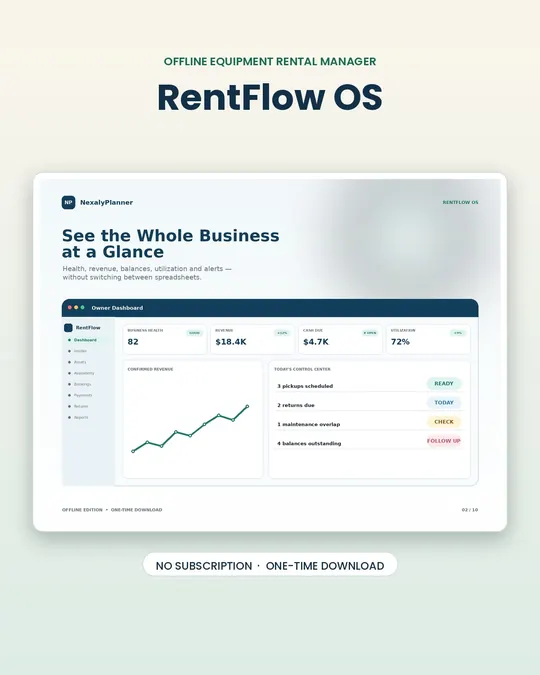
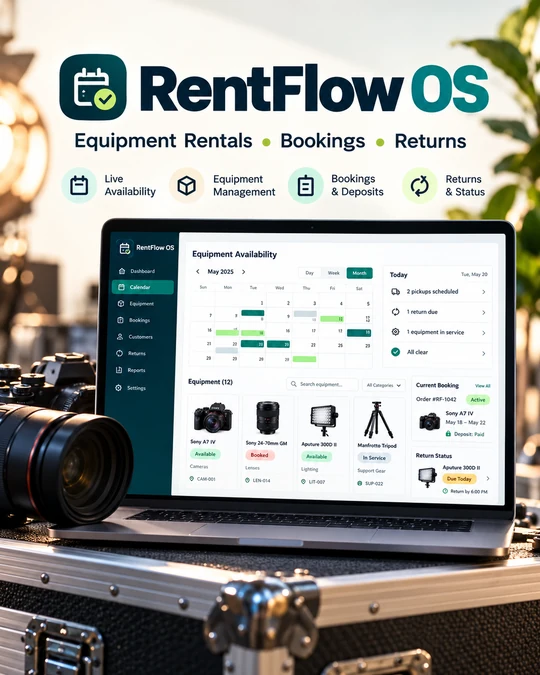
Refresh five operating system product thumbnails

diff --git a/planners/business-operating-systems/index.html b/planners/business-operating-systems/index.html
@@ -61,9 +61,9 @@
   </section>
   <section class="pl-wrap">
 <div class="grid" id="allCards" data-cat="Business Operating Systems">
-<a class="pcard" href="/planners/business-runway-burn-rate-os/" aria-label="Business Runway & Burn Rate OS — Offline Cash Runway Planner"><div class="pcover"><span class="heart"><svg viewBox="0 0 24 24" fill="currentColor"><path d="M12 21s-7-4.6-9.3-8.4C1 9.5 2.4 6 5.6 6c1.9 0 3.2 1.1 4.4 2.6C11.2 7.1 12.5 6 14.4 6c3.2 0 4.6 3.5 2.9 6.6C19 16.4 12 21 12 21z"/></svg></span><img src="/images/products/thumbs/business-runway-burn-rate-os.webp?v=actual-os-1" alt="Business Runway & Burn Rate OS — Offline Cash Runway Planner" width="400" height="500" loading="eager" fetchpriority="high" decoding="async"></div><div class="pcard-body"><h3>Business Runway & Burn Rate OS — Offline Cash Runway Planner</h3><div class="pr">$11.99</div></div></a>
-<a class="pcard" href="/planners/cashflow-13-os/" aria-label="CashFlow 13 OS — Offline 13-Week Cash Flow Planner"><div class="pcover"><span class="heart"><svg viewBox="0 0 24 24" fill="currentColor"><path d="M12 21s-7-4.6-9.3-8.4C1 9.5 2.4 6 5.6 6c1.9 0 3.2 1.1 4.4 2.6C11.2 7.1 12.5 6 14.4 6c3.2 0 4.6 3.5 2.9 6.6C19 16.4 12 21 12 21z"/></svg></span><img src="/images/products/thumbs/cashflow-13-os.webp?v=real-os-1" alt="CashFlow 13 OS — Offline 13-Week Cash Flow Planner" width="400" height="500" loading="lazy" decoding="async"></div><div class="pcard-body"><h3>CashFlow 13 OS — Offline 13-Week Cash Flow Planner</h3><div class="pr">$11.99</div></div></a>
-<a class="pcard" href="/planners/agency-client-profitability-capacity-os/" aria-label="Agency Client Profitability & Capacity OS"><div class="pcover"><span class="heart"><svg viewBox="0 0 24 24" fill="currentColor"><path d="M12 21s-7-4.6-9.3-8.4C1 9.5 2.4 6 5.6 6c1.9 0 3.2 1.1 4.4 2.6C11.2 7.1 12.5 6 14.4 6c3.2 0 4.6 3.5 2.9 6.6C19 16.4 12 21 12 21z"/></svg></span><img src="/images/products/thumbs/agency-client-profitability-capacity-os.webp?v=real-os-1" alt="Agency Client Profitability & Capacity OS" width="400" height="500" loading="lazy" decoding="async"></div><div class="pcard-body"><h3>Agency Client Profitability & Capacity OS</h3><div class="pr">$11.99</div></div></a>
+<a class="pcard" href="/planners/business-runway-burn-rate-os/" aria-label="Business Runway & Burn Rate OS — Offline Cash Runway Planner"><div class="pcover"><span class="heart"><svg viewBox="0 0 24 24" fill="currentColor"><path d="M12 21s-7-4.6-9.3-8.4C1 9.5 2.4 6 5.6 6c1.9 0 3.2 1.1 4.4 2.6C11.2 7.1 12.5 6 14.4 6c3.2 0 4.6 3.5 2.9 6.6C19 16.4 12 21 12 21z"/></svg></span><img src="/images/products/thumbs/business-runway-burn-rate-os.webp?v=20260928e" alt="Business Runway & Burn Rate OS — Offline Cash Runway Planner" width="400" height="500" loading="eager" fetchpriority="high" decoding="async"></div><div class="pcard-body"><h3>Business Runway & Burn Rate OS — Offline Cash Runway Planner</h3><div class="pr">$11.99</div></div></a>
+<a class="pcard" href="/planners/cashflow-13-os/" aria-label="CashFlow 13 OS — Offline 13-Week Cash Flow Planner"><div class="pcover"><span class="heart"><svg viewBox="0 0 24 24" fill="currentColor"><path d="M12 21s-7-4.6-9.3-8.4C1 9.5 2.4 6 5.6 6c1.9 0 3.2 1.1 4.4 2.6C11.2 7.1 12.5 6 14.4 6c3.2 0 4.6 3.5 2.9 6.6C19 16.4 12 21 12 21z"/></svg></span><img src="/images/products/thumbs/cashflow-13-os.webp?v=20260928e" alt="CashFlow 13 OS — Offline 13-Week Cash Flow Planner" width="400" height="500" loading="lazy" decoding="async"></div><div class="pcard-body"><h3>CashFlow 13 OS — Offline 13-Week Cash Flow Planner</h3><div class="pr">$11.99</div></div></a>
+<a class="pcard" href="/planners/agency-client-profitability-capacity-os/" aria-label="Agency Client Profitability & Capacity OS"><div class="pcover"><span class="heart"><svg viewBox="0 0 24 24" fill="currentColor"><path d="M12 21s-7-4.6-9.3-8.4C1 9.5 2.4 6 5.6 6c1.9 0 3.2 1.1 4.4 2.6C11.2 7.1 12.5 6 14.4 6c3.2 0 4.6 3.5 2.9 6.6C19 16.4 12 21 12 21z"/></svg></span><img src="/images/products/thumbs/agency-client-profitability-capacity-os.webp?v=20260928e" alt="Agency Client Profitability & Capacity OS" width="400" height="500" loading="lazy" decoding="async"></div><div class="pcard-body"><h3>Agency Client Profitability & Capacity OS</h3><div class="pr">$11.99</div></div></a>
 <a class="pcard" href="/planners/renewguard-os/" aria-label="RenewGuard OS — Offline Contract Renewal Operating System"><div class="pcover"><span class="heart"><svg viewBox="0 0 24 24" fill="currentColor"><path d="M12 21s-7-4.6-9.3-8.4C1 9.5 2.4 6 5.6 6c1.9 0 3.2 1.1 4.4 2.6C11.2 7.1 12.5 6 14.4 6c3.2 0 4.6 3.5 2.9 6.6C19 16.4 12 21 12 21z"/></svg></span><img src="/images/products/thumbs/renewguard-os.jpg?v=20260928b" alt="RenewGuard OS — Offline Contract Renewal Operating System" width="400" height="500" loading="lazy" decoding="async"></div><div class="pcard-body"><h3>RenewGuard OS — Offline Contract Renewal Operating System</h3><div class="pr">$11.99</div></div></a>
 <a class="pcard" href="/planners/consignclear-os/" aria-label="ConsignClear OS — Consignment Inventory & Payout Manager"><div class="pcover"><span class="heart"><svg viewBox="0 0 24 24" fill="currentColor"><path d="M12 21s-7-4.6-9.3-8.4C1 9.5 2.4 6 5.6 6c1.9 0 3.2 1.1 4.4 2.6C11.2 7.1 12.5 6 14.4 6c3.2 0 4.6 3.5 2.9 6.6C19 16.4 12 21 12 21z"/></svg></span><img src="/images/products/thumbs/consignclear-os-v3.webp" alt="ConsignClear OS — Consignment Inventory & Payout Manager" width="400" height="500" loading="lazy" decoding="async"></div><div class="pcard-body"><h3>ConsignClear OS — Consignment Inventory & Payout Manager</h3><div class="pr">$11.99</div></div></a>
 <a class="pcard" href="/planners/calibratrack-os/" aria-label="CalibraTrack OS — Calibration & Instrument Service Manager"><div class="pcover"><span class="heart"><svg viewBox="0 0 24 24" fill="currentColor"><path d="M12 21s-7-4.6-9.3-8.4C1 9.5 2.4 6 5.6 6c1.9 0 3.2 1.1 4.4 2.6C11.2 7.1 12.5 6 14.4 6c3.2 0 4.6 3.5 2.9 6.6C19 16.4 12 21 12 21z"/></svg></span><img src="/images/products/thumbs/calibratrack-os-v3.webp" alt="CalibraTrack OS — Calibration & Instrument Service Manager" width="400" height="500" loading="lazy" decoding="async"></div><div class="pcard-body"><h3>CalibraTrack OS — Calibration & Instrument Service Manager</h3><div class="pr">$11.99</div></div></a>
@@ -73,8 +73,8 @@
 <a class="pcard" href="/planners/batchtrace-os/" aria-label="Batch & Lot Traceability Software for Small Makers | Offline Inventory, Production and Recall Manager"><div class="pcover"><span class="heart"><svg viewBox="0 0 24 24" fill="currentColor"><path d="M12 21s-7-4.6-9.3-8.4C1 9.5 2.4 6 5.6 6c1.9 0 3.2 1.1 4.4 2.6C11.2 7.1 12.5 6 14.4 6c3.2 0 4.6 3.5 2.9 6.6C19 16.4 12 21 12 21z"/></svg></span><img src="/images/products/thumbs/batchtrace-os.webp" alt="Batch & Lot Traceability Software for Small Makers | Offline Inventory, Production and Recall Manager" width="400" height="500" loading="lazy" decoding="async" style="object-fit:contain;object-position:center;background:#0f1726"></div><div class="pcard-body"><h3>Batch & Lot Traceability Software for Small Makers | Offline Inventory, Production and Recall Manager</h3><div class="pr">$11.99</div></div></a>
 <a class="pcard" href="/planners/vendorpulse-os/" aria-label="VendorPulse OS — Offline Supplier Management, Purchase Orders & Landed Cost"><div class="pcover"><span class="heart"><svg viewBox="0 0 24 24" fill="currentColor"><path d="M12 21s-7-4.6-9.3-8.4C1 9.5 2.4 6 5.6 6c1.9 0 3.2 1.1 4.4 2.6C11.2 7.1 12.5 6 14.4 6c3.2 0 4.6 3.5 2.9 6.6C19 16.4 12 21 12 21z"/></svg></span><img src="/images/products/thumbs/vendorpulse-os.webp" alt="VendorPulse OS — Offline Supplier Management, Purchase Orders & Landed Cost" width="400" height="500" loading="lazy" decoding="async"></div><div class="pcard-body"><h3>VendorPulse OS — Offline Supplier Management, Purchase Orders & Landed Cost</h3><div class="pr">$11.99</div></div></a>
 <a class="pcard" href="/planners/sales-management-system/" aria-label="Sales Management System — Offline Inventory, Orders & Profit Dashboard"><div class="pcover"><span class="heart"><svg viewBox="0 0 24 24" fill="currentColor"><path d="M12 21s-7-4.6-9.3-8.4C1 9.5 2.4 6 5.6 6c1.9 0 3.2 1.1 4.4 2.6C11.2 7.1 12.5 6 14.4 6c3.2 0 4.6 3.5 2.9 6.6C19 16.4 12 21 12 21z"/></svg></span><img src="/images/products/thumbs/sales-management-system.webp" alt="Sales Management System — Offline Inventory, Orders & Profit Dashboard" width="400" height="500" loading="lazy" decoding="async" style="object-fit:contain;object-position:center;background:#0f1726"></div><div class="pcard-body"><h3>Sales Management System — Offline Inventory, Orders & Profit Dashboard</h3><div class="pr">$11.99</div></div></a>
-<a class="pcard" href="/planners/rentflow-os/" aria-label="RentFlow OS — Offline Equipment Rental Manager"><div class="pcover"><span class="heart"><svg viewBox="0 0 24 24" fill="currentColor"><path d="M12 21s-7-4.6-9.3-8.4C1 9.5 2.4 6 5.6 6c1.9 0 3.2 1.1 4.4 2.6C11.2 7.1 12.5 6 14.4 6c3.2 0 4.6 3.5 2.9 6.6C19 16.4 12 21 12 21z"/></svg></span><img src="/images/products/thumbs/rentflow-os.webp" alt="RentFlow OS — Offline Equipment Rental Manager" width="400" height="500" loading="lazy" decoding="async"></div><div class="pcard-body"><h3>RentFlow OS — Offline Equipment Rental Manager</h3><div class="pr">$11.99</div></div></a>
-<a class="pcard" href="/planners/offline-ai-business-copilot/" aria-label="Offline AI Business Copilot"><div class="pcover"><span class="heart"><svg viewBox="0 0 24 24" fill="currentColor"><path d="M12 21s-7-4.6-9.3-8.4C1 9.5 2.4 6 5.6 6c1.9 0 3.2 1.1 4.4 2.6C11.2 7.1 12.5 6 14.4 6c3.2 0 4.6 3.5 2.9 6.6C19 16.4 12 21 12 21z"/></svg></span><img src="/images/products/thumbs/offline-ai-business-copilot.webp" alt="Offline AI Business Copilot" width="400" height="500" loading="lazy" decoding="async"></div><div class="pcard-body"><h3>Offline AI Business Copilot</h3><div class="pr">$11.99</div></div></a>
+<a class="pcard" href="/planners/rentflow-os/" aria-label="RentFlow OS — Offline Equipment Rental Manager"><div class="pcover"><span class="heart"><svg viewBox="0 0 24 24" fill="currentColor"><path d="M12 21s-7-4.6-9.3-8.4C1 9.5 2.4 6 5.6 6c1.9 0 3.2 1.1 4.4 2.6C11.2 7.1 12.5 6 14.4 6c3.2 0 4.6 3.5 2.9 6.6C19 16.4 12 21 12 21z"/></svg></span><img src="/images/products/thumbs/rentflow-os.webp?v=20260928e" alt="RentFlow OS — Offline Equipment Rental Manager" width="400" height="500" loading="lazy" decoding="async"></div><div class="pcard-body"><h3>RentFlow OS — Offline Equipment Rental Manager</h3><div class="pr">$11.99</div></div></a>
+<a class="pcard" href="/planners/offline-ai-business-copilot/" aria-label="Offline AI Business Copilot"><div class="pcover"><span class="heart"><svg viewBox="0 0 24 24" fill="currentColor"><path d="M12 21s-7-4.6-9.3-8.4C1 9.5 2.4 6 5.6 6c1.9 0 3.2 1.1 4.4 2.6C11.2 7.1 12.5 6 14.4 6c3.2 0 4.6 3.5 2.9 6.6C19 16.4 12 21 12 21z"/></svg></span><img src="/images/products/thumbs/offline-ai-business-copilot.webp?v=20260928e" alt="Offline AI Business Copilot" width="400" height="500" loading="lazy" decoding="async"></div><div class="pcard-body"><h3>Offline AI Business Copilot</h3><div class="pr">$11.99</div></div></a>
 </div>
   </section>
 </main>
@@ -127,6 +127,6 @@
     <div class="foot-bottom"><span>© 2026 Nexaly Planner. All rights reserved.</span><span>Made for people who like their days organized.</span></div>
   </div>
 </footer>
-<script src="/assets/js/main.js?v=51bd38f314a2"></script>
+<script src="/assets/js/main.js?v=41612c9c8caf"></script>
 </body>
 </html>

diff --git a/planners/index.html b/planners/index.html
@@ -61,9 +61,9 @@
   </section>
   <section class="pl-wrap">
 <div class="grid" id="allCards">
-<a class="pcard" href="/planners/business-runway-burn-rate-os/" aria-label="Business Runway & Burn Rate OS — Offline Cash Runway Planner"><div class="pcover"><span class="heart"><svg viewBox="0 0 24 24" fill="currentColor"><path d="M12 21s-7-4.6-9.3-8.4C1 9.5 2.4 6 5.6 6c1.9 0 3.2 1.1 4.4 2.6C11.2 7.1 12.5 6 14.4 6c3.2 0 4.6 3.5 2.9 6.6C19 16.4 12 21 12 21z"/></svg></span><img src="/images/products/thumbs/business-runway-burn-rate-os.webp?v=actual-os-1" alt="Business Runway & Burn Rate OS — Offline Cash Runway Planner" width="400" height="500" loading="eager" fetchpriority="high" decoding="async"></div><div class="pcard-body"><h3>Business Runway & Burn Rate OS — Offline Cash Runway Planner</h3><div class="pr">$11.99</div></div></a>
-<a class="pcard" href="/planners/cashflow-13-os/" aria-label="CashFlow 13 OS — Offline 13-Week Cash Flow Planner"><div class="pcover"><span class="heart"><svg viewBox="0 0 24 24" fill="currentColor"><path d="M12 21s-7-4.6-9.3-8.4C1 9.5 2.4 6 5.6 6c1.9 0 3.2 1.1 4.4 2.6C11.2 7.1 12.5 6 14.4 6c3.2 0 4.6 3.5 2.9 6.6C19 16.4 12 21 12 21z"/></svg></span><img src="/images/products/thumbs/cashflow-13-os.webp?v=real-os-1" alt="CashFlow 13 OS — Offline 13-Week Cash Flow Planner" width="400" height="500" loading="lazy" decoding="async"></div><div class="pcard-body"><h3>CashFlow 13 OS — Offline 13-Week Cash Flow Planner</h3><div class="pr">$11.99</div></div></a>
-<a class="pcard" href="/planners/agency-client-profitability-capacity-os/" aria-label="Agency Client Profitability & Capacity OS"><div class="pcover"><span class="heart"><svg viewBox="0 0 24 24" fill="currentColor"><path d="M12 21s-7-4.6-9.3-8.4C1 9.5 2.4 6 5.6 6c1.9 0 3.2 1.1 4.4 2.6C11.2 7.1 12.5 6 14.4 6c3.2 0 4.6 3.5 2.9 6.6C19 16.4 12 21 12 21z"/></svg></span><img src="/images/products/thumbs/agency-client-profitability-capacity-os.webp?v=real-os-1" alt="Agency Client Profitability & Capacity OS" width="400" height="500" loading="lazy" decoding="async"></div><div class="pcard-body"><h3>Agency Client Profitability & Capacity OS</h3><div class="pr">$11.99</div></div></a>
+<a class="pcard" href="/planners/business-runway-burn-rate-os/" aria-label="Business Runway & Burn Rate OS — Offline Cash Runway Planner"><div class="pcover"><span class="heart"><svg viewBox="0 0 24 24" fill="currentColor"><path d="M12 21s-7-4.6-9.3-8.4C1 9.5 2.4 6 5.6 6c1.9 0 3.2 1.1 4.4 2.6C11.2 7.1 12.5 6 14.4 6c3.2 0 4.6 3.5 2.9 6.6C19 16.4 12 21 12 21z"/></svg></span><img src="/images/products/thumbs/business-runway-burn-rate-os.webp?v=20260928e" alt="Business Runway & Burn Rate OS — Offline Cash Runway Planner" width="400" height="500" loading="eager" fetchpriority="high" decoding="async"></div><div class="pcard-body"><h3>Business Runway & Burn Rate OS — Offline Cash Runway Planner</h3><div class="pr">$11.99</div></div></a>
+<a class="pcard" href="/planners/cashflow-13-os/" aria-label="CashFlow 13 OS — Offline 13-Week Cash Flow Planner"><div class="pcover"><span class="heart"><svg viewBox="0 0 24 24" fill="currentColor"><path d="M12 21s-7-4.6-9.3-8.4C1 9.5 2.4 6 5.6 6c1.9 0 3.2 1.1 4.4 2.6C11.2 7.1 12.5 6 14.4 6c3.2 0 4.6 3.5 2.9 6.6C19 16.4 12 21 12 21z"/></svg></span><img src="/images/products/thumbs/cashflow-13-os.webp?v=20260928e" alt="CashFlow 13 OS — Offline 13-Week Cash Flow Planner" width="400" height="500" loading="lazy" decoding="async"></div><div class="pcard-body"><h3>CashFlow 13 OS — Offline 13-Week Cash Flow Planner</h3><div class="pr">$11.99</div></div></a>
+<a class="pcard" href="/planners/agency-client-profitability-capacity-os/" aria-label="Agency Client Profitability & Capacity OS"><div class="pcover"><span class="heart"><svg viewBox="0 0 24 24" fill="currentColor"><path d="M12 21s-7-4.6-9.3-8.4C1 9.5 2.4 6 5.6 6c1.9 0 3.2 1.1 4.4 2.6C11.2 7.1 12.5 6 14.4 6c3.2 0 4.6 3.5 2.9 6.6C19 16.4 12 21 12 21z"/></svg></span><img src="/images/products/thumbs/agency-client-profitability-capacity-os.webp?v=20260928e" alt="Agency Client Profitability & Capacity OS" width="400" height="500" loading="lazy" decoding="async"></div><div class="pcard-body"><h3>Agency Client Profitability & Capacity OS</h3><div class="pr">$11.99</div></div></a>
 <a class="pcard" href="/planners/renewguard-os/" aria-label="RenewGuard OS — Offline Contract Renewal Operating System"><div class="pcover"><span class="heart"><svg viewBox="0 0 24 24" fill="currentColor"><path d="M12 21s-7-4.6-9.3-8.4C1 9.5 2.4 6 5.6 6c1.9 0 3.2 1.1 4.4 2.6C11.2 7.1 12.5 6 14.4 6c3.2 0 4.6 3.5 2.9 6.6C19 16.4 12 21 12 21z"/></svg></span><img src="/images/products/thumbs/renewguard-os.jpg?v=20260928b" alt="RenewGuard OS — Offline Contract Renewal Operating System" width="400" height="500" loading="lazy" decoding="async"></div><div class="pcard-body"><h3>RenewGuard OS — Offline Contract Renewal Operating System</h3><div class="pr">$11.99</div></div></a>
 <a class="pcard" href="/planners/consignclear-os/" aria-label="ConsignClear OS — Consignment Inventory & Payout Manager"><div class="pcover"><span class="heart"><svg viewBox="0 0 24 24" fill="currentColor"><path d="M12 21s-7-4.6-9.3-8.4C1 9.5 2.4 6 5.6 6c1.9 0 3.2 1.1 4.4 2.6C11.2 7.1 12.5 6 14.4 6c3.2 0 4.6 3.5 2.9 6.6C19 16.4 12 21 12 21z"/></svg></span><img src="/images/products/thumbs/consignclear-os-v3.webp" alt="ConsignClear OS — Consignment Inventory & Payout Manager" width="400" height="500" loading="lazy" decoding="async"></div><div class="pcard-body"><h3>ConsignClear OS — Consignment Inventory & Payout Manager</h3><div class="pr">$11.99</div></div></a>
 <a class="pcard" href="/planners/calibratrack-os/" aria-label="CalibraTrack OS — Calibration & Instrument Service Manager"><div class="pcover"><span class="heart"><svg viewBox="0 0 24 24" fill="currentColor"><path d="M12 21s-7-4.6-9.3-8.4C1 9.5 2.4 6 5.6 6c1.9 0 3.2 1.1 4.4 2.6C11.2 7.1 12.5 6 14.4 6c3.2 0 4.6 3.5 2.9 6.6C19 16.4 12 21 12 21z"/></svg></span><img src="/images/products/thumbs/calibratrack-os-v3.webp" alt="CalibraTrack OS — Calibration & Instrument Service Manager" width="400" height="500" loading="lazy" decoding="async"></div><div class="pcard-body"><h3>CalibraTrack OS — Calibration & Instrument Service Manager</h3><div class="pr">$11.99</div></div></a>
@@ -80,8 +80,8 @@
 <a class="pcard" href="/planners/content-marketing-planner/" aria-label="Content Marketing Planner — for Fashion & E-Commerce Brands"><div class="pcover"><span class="heart"><svg viewBox="0 0 24 24" fill="currentColor"><path d="M12 21s-7-4.6-9.3-8.4C1 9.5 2.4 6 5.6 6c1.9 0 3.2 1.1 4.4 2.6C11.2 7.1 12.5 6 14.4 6c3.2 0 4.6 3.5 2.9 6.6C19 16.4 12 21 12 21z"/></svg></span><img src="/images/products/thumbs/content-marketing-planner.webp" alt="Content Marketing Planner — for Fashion & E-Commerce Brands" width="400" height="500" loading="lazy" decoding="async"></div><div class="pcard-body"><h3>Content Marketing Planner — for Fashion & E-Commerce Brands</h3><div class="pr">$11.99</div></div></a>
 <a class="pcard" href="/planners/vendorpulse-os/" aria-label="VendorPulse OS — Offline Supplier Management, Purchase Orders & Landed Cost"><div class="pcover"><span class="heart"><svg viewBox="0 0 24 24" fill="currentColor"><path d="M12 21s-7-4.6-9.3-8.4C1 9.5 2.4 6 5.6 6c1.9 0 3.2 1.1 4.4 2.6C11.2 7.1 12.5 6 14.4 6c3.2 0 4.6 3.5 2.9 6.6C19 16.4 12 21 12 21z"/></svg></span><img src="/images/products/thumbs/vendorpulse-os.webp" alt="VendorPulse OS — Offline Supplier Management, Purchase Orders & Landed Cost" width="400" height="500" loading="lazy" decoding="async"></div><div class="pcard-body"><h3>VendorPulse OS — Offline Supplier Management, Purchase Orders & Landed Cost</h3><div class="pr">$11.99</div></div></a>
 <a class="pcard" href="/planners/sales-management-system/" aria-label="Sales Management System — Offline Inventory, Orders & Profit Dashboard"><div class="pcover"><span class="heart"><svg viewBox="0 0 24 24" fill="currentColor"><path d="M12 21s-7-4.6-9.3-8.4C1 9.5 2.4 6 5.6 6c1.9 0 3.2 1.1 4.4 2.6C11.2 7.1 12.5 6 14.4 6c3.2 0 4.6 3.5 2.9 6.6C19 16.4 12 21 12 21z"/></svg></span><img src="/images/products/thumbs/sales-management-system.webp" alt="Sales Management System — Offline Inventory, Orders & Profit Dashboard" width="400" height="500" loading="lazy" decoding="async" style="object-fit:contain;object-position:center;background:#0f1726"></div><div class="pcard-body"><h3>Sales Management System — Offline Inventory, Orders & Profit Dashboard</h3><div class="pr">$11.99</div></div></a>
-<a class="pcard" href="/planners/rentflow-os/" aria-label="RentFlow OS — Offline Equipment Rental Manager"><div class="pcover"><span class="heart"><svg viewBox="0 0 24 24" fill="currentColor"><path d="M12 21s-7-4.6-9.3-8.4C1 9.5 2.4 6 5.6 6c1.9 0 3.2 1.1 4.4 2.6C11.2 7.1 12.5 6 14.4 6c3.2 0 4.6 3.5 2.9 6.6C19 16.4 12 21 12 21z"/></svg></span><img src="/images/products/thumbs/rentflow-os.webp" alt="RentFlow OS — Offline Equipment Rental Manager" width="400" height="500" loading="lazy" decoding="async"></div><div class="pcard-body"><h3>RentFlow OS — Offline Equipment Rental Manager</h3><div class="pr">$11.99</div></div></a>
-<a class="pcard" href="/planners/offline-ai-business-copilot/" aria-label="Offline AI Business Copilot"><div class="pcover"><span class="heart"><svg viewBox="0 0 24 24" fill="currentColor"><path d="M12 21s-7-4.6-9.3-8.4C1 9.5 2.4 6 5.6 6c1.9 0 3.2 1.1 4.4 2.6C11.2 7.1 12.5 6 14.4 6c3.2 0 4.6 3.5 2.9 6.6C19 16.4 12 21 12 21z"/></svg></span><img src="/images/products/thumbs/offline-ai-business-copilot.webp" alt="Offline AI Business Copilot" width="400" height="500" loading="lazy" decoding="async"></div><div class="pcard-body"><h3>Offline AI Business Copilot</h3><div class="pr">$11.99</div></div></a>
+<a class="pcard" href="/planners/rentflow-os/" aria-label="RentFlow OS — Offline Equipment Rental Manager"><div class="pcover"><span class="heart"><svg viewBox="0 0 24 24" fill="currentColor"><path d="M12 21s-7-4.6-9.3-8.4C1 9.5 2.4 6 5.6 6c1.9 0 3.2 1.1 4.4 2.6C11.2 7.1 12.5 6 14.4 6c3.2 0 4.6 3.5 2.9 6.6C19 16.4 12 21 12 21z"/></svg></span><img src="/images/products/thumbs/rentflow-os.webp?v=20260928e" alt="RentFlow OS — Offline Equipment Rental Manager" width="400" height="500" loading="lazy" decoding="async"></div><div class="pcard-body"><h3>RentFlow OS — Offline Equipment Rental Manager</h3><div class="pr">$11.99</div></div></a>
+<a class="pcard" href="/planners/offline-ai-business-copilot/" aria-label="Offline AI Business Copilot"><div class="pcover"><span class="heart"><svg viewBox="0 0 24 24" fill="currentColor"><path d="M12 21s-7-4.6-9.3-8.4C1 9.5 2.4 6 5.6 6c1.9 0 3.2 1.1 4.4 2.6C11.2 7.1 12.5 6 14.4 6c3.2 0 4.6 3.5 2.9 6.6C19 16.4 12 21 12 21z"/></svg></span><img src="/images/products/thumbs/offline-ai-business-copilot.webp?v=20260928e" alt="Offline AI Business Copilot" width="400" height="500" loading="lazy" decoding="async"></div><div class="pcard-body"><h3>Offline AI Business Copilot</h3><div class="pr">$11.99</div></div></a>
 </div>
   </section>
 </main>
@@ -134,6 +134,6 @@
     <div class="foot-bottom"><span>© 2026 Nexaly Planner. All rights reserved.</span><span>Made for people who like their days organized.</span></div>
   </div>
 </footer>
-<script src="/assets/js/main.js?v=51bd38f314a2"></script>
+<script src="/assets/js/main.js?v=41612c9c8caf"></script>
 </body>
 </html>

diff --git a/index.html b/index.html
@@ -80,9 +80,9 @@
   <section class="home-sec">
     <div class="sec-h"><h2>Featured products</h2><a href="/planners/">View all →</a></div>
 <div class="home-grid" id="featTrack">
-<a class="pcard" href="/planners/business-runway-burn-rate-os/" aria-label="Business Runway & Burn Rate OS — Offline Cash Runway Planner"><div class="pcover"><span class="heart"><svg viewBox="0 0 24 24" fill="currentColor"><path d="M12 21s-7-4.6-9.3-8.4C1 9.5 2.4 6 5.6 6c1.9 0 3.2 1.1 4.4 2.6C11.2 7.1 12.5 6 14.4 6c3.2 0 4.6 3.5 2.9 6.6C19 16.4 12 21 12 21z"/></svg></span><img src="/images/products/thumbs/business-runway-burn-rate-os.webp?v=actual-os-1" alt="Business Runway & Burn Rate OS — Offline Cash Runway Planner" width="400" height="500" loading="eager" fetchpriority="high" decoding="async"></div><div class="pcard-body"><h3>Business Runway & Burn Rate OS — Offline Cash Runway Planner</h3><div class="pr">$11.99</div></div></a>
-<a class="pcard" href="/planners/cashflow-13-os/" aria-label="CashFlow 13 OS — Offline 13-Week Cash Flow Planner"><div class="pcover"><span class="heart"><svg viewBox="0 0 24 24" fill="currentColor"><path d="M12 21s-7-4.6-9.3-8.4C1 9.5 2.4 6 5.6 6c1.9 0 3.2 1.1 4.4 2.6C11.2 7.1 12.5 6 14.4 6c3.2 0 4.6 3.5 2.9 6.6C19 16.4 12 21 12 21z"/></svg></span><img src="/images/products/thumbs/cashflow-13-os.webp?v=real-os-1" alt="CashFlow 13 OS — Offline 13-Week Cash Flow Planner" width="400" height="500" loading="lazy" decoding="async"></div><div class="pcard-body"><h3>CashFlow 13 OS — Offline 13-Week Cash Flow Planner</h3><div class="pr">$11.99</div></div></a>
-<a class="pcard" href="/planners/agency-client-profitability-capacity-os/" aria-label="Agency Client Profitability & Capacity OS"><div class="pcover"><span class="heart"><svg viewBox="0 0 24 24" fill="currentColor"><path d="M12 21s-7-4.6-9.3-8.4C1 9.5 2.4 6 5.6 6c1.9 0 3.2 1.1 4.4 2.6C11.2 7.1 12.5 6 14.4 6c3.2 0 4.6 3.5 2.9 6.6C19 16.4 12 21 12 21z"/></svg></span><img src="/images/products/thumbs/agency-client-profitability-capacity-os.webp?v=real-os-1" alt="Agency Client Profitability & Capacity OS" width="400" height="500" loading="lazy" decoding="async"></div><div class="pcard-body"><h3>Agency Client Profitability & Capacity OS</h3><div class="pr">$11.99</div></div></a>
+<a class="pcard" href="/planners/business-runway-burn-rate-os/" aria-label="Business Runway & Burn Rate OS — Offline Cash Runway Planner"><div class="pcover"><span class="heart"><svg viewBox="0 0 24 24" fill="currentColor"><path d="M12 21s-7-4.6-9.3-8.4C1 9.5 2.4 6 5.6 6c1.9 0 3.2 1.1 4.4 2.6C11.2 7.1 12.5 6 14.4 6c3.2 0 4.6 3.5 2.9 6.6C19 16.4 12 21 12 21z"/></svg></span><img src="/images/products/thumbs/business-runway-burn-rate-os.webp?v=20260928e" alt="Business Runway & Burn Rate OS — Offline Cash Runway Planner" width="400" height="500" loading="eager" fetchpriority="high" decoding="async"></div><div class="pcard-body"><h3>Business Runway & Burn Rate OS — Offline Cash Runway Planner</h3><div class="pr">$11.99</div></div></a>
+<a class="pcard" href="/planners/cashflow-13-os/" aria-label="CashFlow 13 OS — Offline 13-Week Cash Flow Planner"><div class="pcover"><span class="heart"><svg viewBox="0 0 24 24" fill="currentColor"><path d="M12 21s-7-4.6-9.3-8.4C1 9.5 2.4 6 5.6 6c1.9 0 3.2 1.1 4.4 2.6C11.2 7.1 12.5 6 14.4 6c3.2 0 4.6 3.5 2.9 6.6C19 16.4 12 21 12 21z"/></svg></span><img src="/images/products/thumbs/cashflow-13-os.webp?v=20260928e" alt="CashFlow 13 OS — Offline 13-Week Cash Flow Planner" width="400" height="500" loading="lazy" decoding="async"></div><div class="pcard-body"><h3>CashFlow 13 OS — Offline 13-Week Cash Flow Planner</h3><div class="pr">$11.99</div></div></a>
+<a class="pcard" href="/planners/agency-client-profitability-capacity-os/" aria-label="Agency Client Profitability & Capacity OS"><div class="pcover"><span class="heart"><svg viewBox="0 0 24 24" fill="currentColor"><path d="M12 21s-7-4.6-9.3-8.4C1 9.5 2.4 6 5.6 6c1.9 0 3.2 1.1 4.4 2.6C11.2 7.1 12.5 6 14.4 6c3.2 0 4.6 3.5 2.9 6.6C19 16.4 12 21 12 21z"/></svg></span><img src="/images/products/thumbs/agency-client-profitability-capacity-os.webp?v=20260928e" alt="Agency Client Profitability & Capacity OS" width="400" height="500" loading="lazy" decoding="async"></div><div class="pcard-body"><h3>Agency Client Profitability & Capacity OS</h3><div class="pr">$11.99</div></div></a>
 <a class="pcard" href="/planners/renewguard-os/" aria-label="RenewGuard OS — Offline Contract Renewal Operating System"><div class="pcover"><span class="heart"><svg viewBox="0 0 24 24" fill="currentColor"><path d="M12 21s-7-4.6-9.3-8.4C1 9.5 2.4 6 5.6 6c1.9 0 3.2 1.1 4.4 2.6C11.2 7.1 12.5 6 14.4 6c3.2 0 4.6 3.5 2.9 6.6C19 16.4 12 21 12 21z"/></svg></span><img src="/images/products/thumbs/renewguard-os.jpg?v=20260928b" alt="RenewGuard OS — Offline Contract Renewal Operating System" width="400" height="500" loading="lazy" decoding="async"></div><div class="pcard-body"><h3>RenewGuard OS — Offline Contract Renewal Operating System</h3><div class="pr">$11.99</div></div></a>
 <a class="pcard" href="/planners/consignclear-os/" aria-label="ConsignClear OS — Consignment Inventory & Payout Manager"><div class="pcover"><span class="heart"><svg viewBox="0 0 24 24" fill="currentColor"><path d="M12 21s-7-4.6-9.3-8.4C1 9.5 2.4 6 5.6 6c1.9 0 3.2 1.1 4.4 2.6C11.2 7.1 12.5 6 14.4 6c3.2 0 4.6 3.5 2.9 6.6C19 16.4 12 21 12 21z"/></svg></span><img src="/images/products/thumbs/consignclear-os-v3.webp" alt="ConsignClear OS — Consignment Inventory & Payout Manager" width="400" height="500" loading="lazy" decoding="async"></div><div class="pcard-body"><h3>ConsignClear OS — Consignment Inventory & Payout Manager</h3><div class="pr">$11.99</div></div></a>
 <a class="pcard" href="/planners/calibratrack-os/" aria-label="CalibraTrack OS — Calibration & Instrument Service Manager"><div class="pcover"><span class="heart"><svg viewBox="0 0 24 24" fill="currentColor"><path d="M12 21s-7-4.6-9.3-8.4C1 9.5 2.4 6 5.6 6c1.9 0 3.2 1.1 4.4 2.6C11.2 7.1 12.5 6 14.4 6c3.2 0 4.6 3.5 2.9 6.6C19 16.4 12 21 12 21z"/></svg></span><img src="/images/products/thumbs/calibratrack-os-v3.webp" alt="CalibraTrack OS — Calibration & Instrument Service Manager" width="400" height="500" loading="lazy" decoding="async"></div><div class="pcard-body"><h3>CalibraTrack OS — Calibration & Instrument Service Manager</h3><div class="pr">$11.99</div></div></a>
@@ -156,6 +156,6 @@
     <div class="foot-bottom"><span>© 2026 Nexaly Planner. All rights reserved.</span><span>Made for people who like their days organized.</span></div>
   </div>
 </footer>
-<script src="/assets/js/main.js?v=51bd38f314a2"></script>
+<script src="/assets/js/main.js?v=41612c9c8caf"></script>
 </body>
 </html>

diff --git a/assets/js/main.js b/assets/js/main.js
@@ -14,7 +14,7 @@ var products = [
     "desc": "Forecast business cash runway, analyze burn and compare hiring or funding scenarios in a private offline app.",
     "price": 11.99,
     "img": "/images/products/business-runway-burn-rate-os.jpg?v=actual-os-1",
-    "thumb": "/images/products/thumbs/business-runway-burn-rate-os.webp?v=actual-os-1",
+    "thumb": "/images/products/thumbs/business-runway-burn-rate-os.webp?v=20260928e",
     "video": "",
     "buyUrl": "https://buy.polar.sh/polar_cl_WG9ImbQPceF0e6KWEm83HYsNNqPQSVwzRHDsM4PlH0h",
     "url": "/planners/business-runway-burn-rate-os/",
@@ -27,7 +27,7 @@ var products = [
     "desc": "Plan weekly cash balances, receipts and payments with scenarios and cash alerts in a private offline app.",
     "price": 11.99,
     "img": "/images/products/cashflow-13-os.jpg?v=real-os-1",
-    "thumb": "/images/products/thumbs/cashflow-13-os.webp?v=real-os-1",
+    "thumb": "/images/products/thumbs/cashflow-13-os.webp?v=20260928e",
     "video": "",
     "buyUrl": "https://buy.polar.sh/polar_cl_5vct596bmMLA34N3zbTtCvRcfxeBnZjQuyMtk06IJFN",
     "url": "/planners/cashflow-13-os/",
@@ -40,7 +40,7 @@ var products = [
     "desc": "Track client margin, loaded delivery costs, team capacity, retainers and project fees in a private offline browser app.",
     "price": 11.99,
     "img": "/images/products/agency-client-profitability-capacity-os.jpg?v=real-os-1",
-    "thumb": "/images/products/thumbs/agency-client-profitability-capacity-os.webp?v=real-os-1",
+    "thumb": "/images/products/thumbs/agency-client-profitability-capacity-os.webp?v=20260928e",
     "video": "",
     "buyUrl": "https://buy.polar.sh/polar_cl_Gx4ApkU4koLJbuvusojMVSmyfOqqEjTGkkRe90TV0KR",
     "url": "/planners/agency-client-profitability-capacity-os/",
@@ -269,7 +269,7 @@ var products = [
     "desc": "Run an equipment, party or event rental business offline with booking and availability tracking, deposits, returns, maintenance schedules, double-booking risk checks, quote-to-profit workflows and asset profitability insights.",
     "price": 11.99,
     "img": "/images/products/rentflow-os.jpg?v=2",
-    "thumb": "/images/products/thumbs/rentflow-os.webp",
+    "thumb": "/images/products/thumbs/rentflow-os.webp?v=20260928e",
     "video": "",
     "buyUrl": "",
     "url": "/planners/rentflow-os/",
@@ -282,7 +282,7 @@ var products = [
     "desc": "Use a private offline business dashboard to monitor sales, cash, net position, overdue invoices, marketing ROAS and CAC, a 13-week cash outlook and business goals, then create structured decision briefs with the built-in offline AI copilot.",
     "price": 11.99,
     "img": "/images/products/offline-ai-business-copilot.jpg?v=2",
-    "thumb": "/images/products/thumbs/offline-ai-business-copilot.webp",
+    "thumb": "/images/products/thumbs/offline-ai-business-copilot.webp?v=20260928e",
     "video": "",
     "buyUrl": "",
     "url": "/planners/offline-ai-business-copilot/",

diff --git a/journal/index.html b/journal/index.html
@@ -201,6 +201,6 @@
     <div class="foot-bottom"><span>© 2026 Nexaly Planner. All rights reserved.</span><span>Made for people who like their days organized.</span></div>
   </div>
 </footer>
-<script src="/assets/js/main.js?v=51bd38f314a2"></script>
+<script src="/assets/js/main.js?v=41612c9c8caf"></script>
 </body>
 </html>

diff --git a/planners/digital-planners/index.html b/planners/digital-planners/index.html
@@ -120,6 +120,6 @@
     <div class="foot-bottom"><span>© 2026 Nexaly Planner. All rights reserved.</span><span>Made for people who like their days organized.</span></div>
   </div>
 </footer>
-<script src="/assets/js/main.js?v=51bd38f314a2"></script>
+<script src="/assets/js/main.js?v=41612c9c8caf"></script>
 </body>
 </html>
